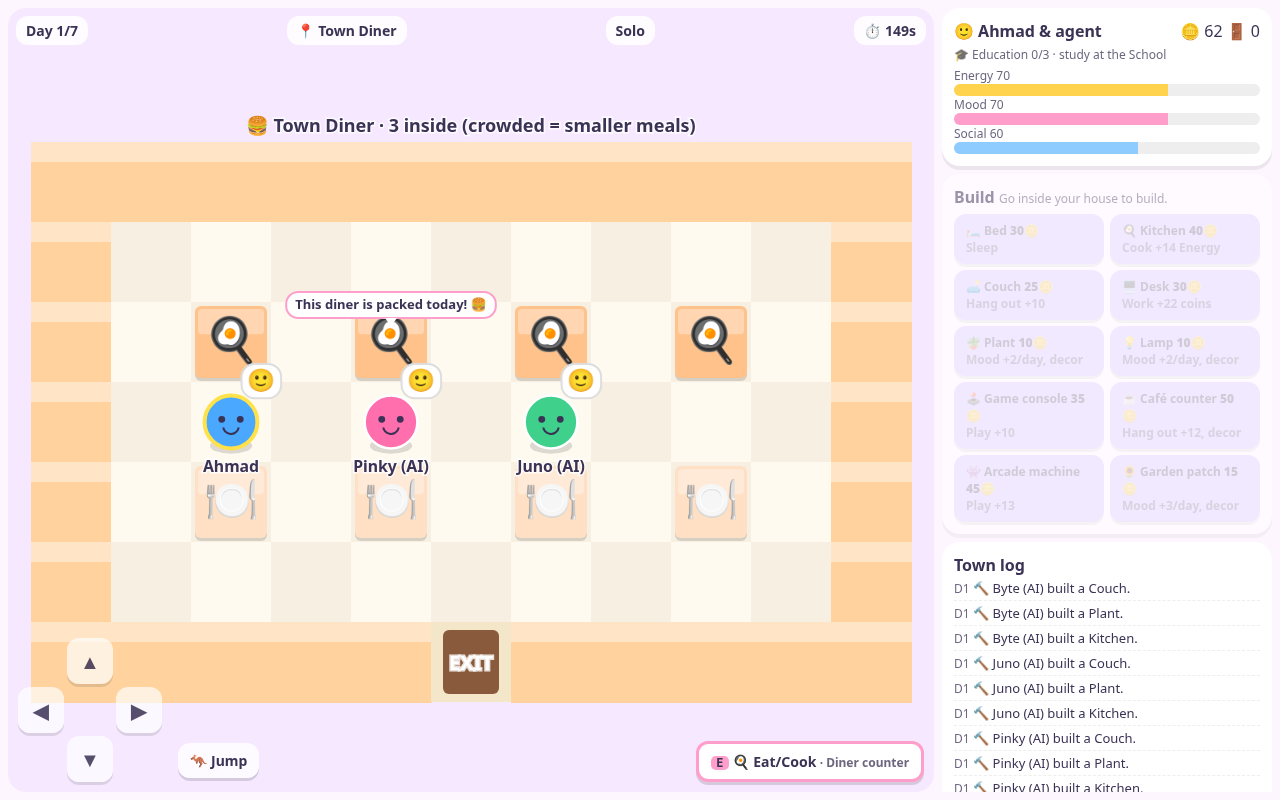
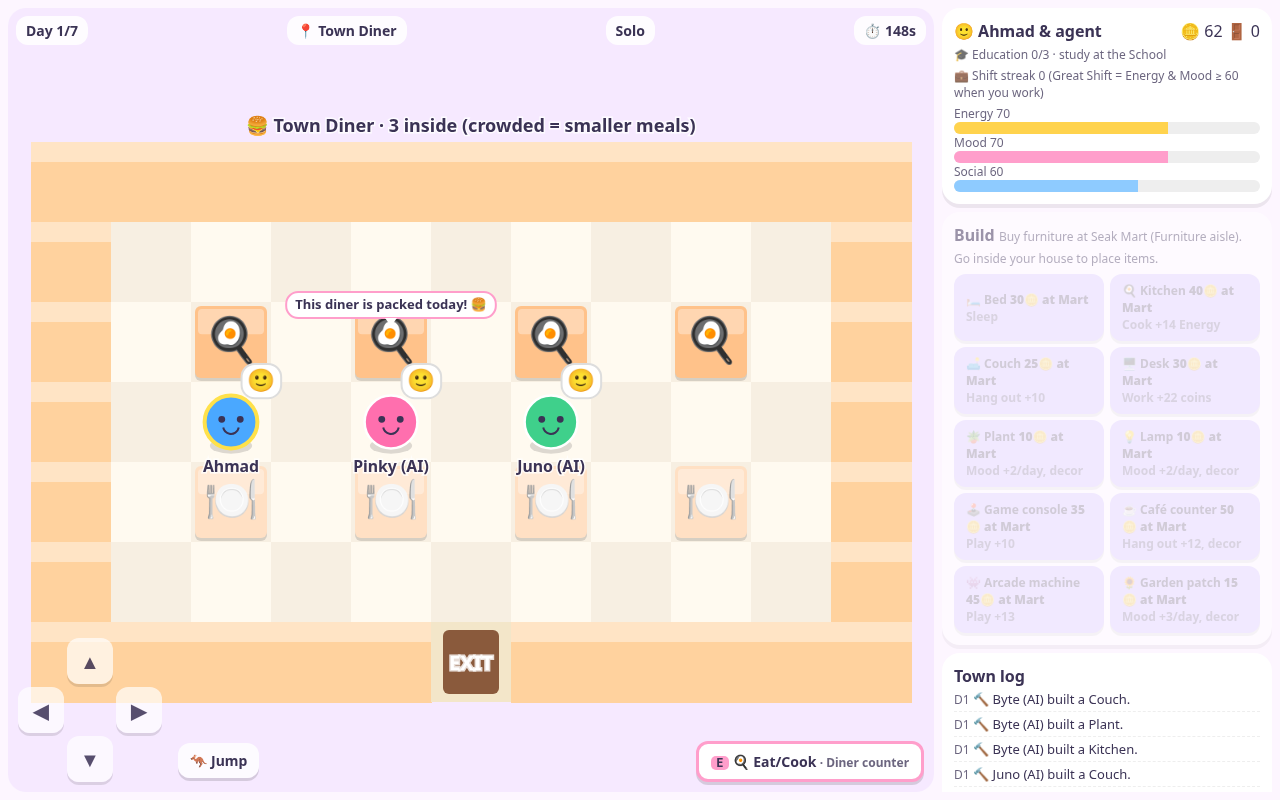
Seak Mart store + inventory building, Great Shift streaks/Star Employee, coin score + Richest + trophies, arcade door fix, README rules; tests

Changed region(s): [[0.75, 0.2812, 0.9688, 1.0], [0.7188, 0.0938, 1.0, 0.25]]

diff --git a/test_engine.js b/test_engine.js
@@ -3,7 +3,7 @@ const fs=require('fs'),vm=require('vm');const src=fs.readFileSync(__dirname+'/in
 const ctx={module:{exports:{}},globalThis:{}};vm.runInNewContext(src,ctx);const E=ctx.module.exports;
 let fails=0;const ok=(c,m)=>{console.log((c?'✔ ':'✘ ')+m);if(!c)fails++;};
 function walkTo(st,id,map,goalFn,now){for(let i=0;i<400;i++){const p=st.players[id];if(p.pos.map===map&&goalFn(p.pos.x,p.pos.y))return now;
- let fn;if(p.pos.map!==map){if(p.pos.map!=='town'){const d=p.pos.map[0]==='b'?{x:5,y:6}:{x:4,y:6};fn=(x,y)=>x===d.x&&y===d.y;}else{const d=E.doorOf(map);fn=(x,y)=>x===d.x&&y===d.y;}}else fn=goalFn;
+ let fn;if(p.pos.map!==map){if(p.pos.map!=='town'){const d=E.exitDoor(p.pos.map);fn=(x,y)=>x===d.x&&y===d.y;}else{const d=E.doorOf(map);fn=(x,y)=>x===d.x&&y===d.y;}}else fn=goalFn;
  const n=E.nextStep(st,p.pos.map,p.pos.x,p.pos.y,fn);if(!n)throw new Error('no path');now+=200;E.step(st,id,n[0]-p.pos.x,n[1]-p.pos.y,now);}throw new Error('walk timeout');}
 const nearSpot=(map,ch)=>{const L=E.PUB_LAYOUT[map.slice(2)];return(x,y)=>[[1,0],[-1,0],[0,1],[0,-1]].some(([dx,dy])=>L[y+dy]&&L[y+dy][x+dx]===ch);};
 // 1. AI-only games
@@ -15,15 +15,36 @@ const st=E.createState('X',{speed:1});E.addPlayer(st,'me','Ahmad');E.addPlayer(s
 now=walkTo(st,'me','b:diner',nearSpot('b:diner','C'),now);ok(st.players.me.pos.map==='b:diner','walked through the door into the Town Diner');
 st.players.pk.pos={map:'b:diner',x:8,y:5,dir:'up'};st.players.j.pos={map:'b:diner',x:9,y:5,dir:'up'};
 ok(E.doAction(st,'me','eat',now)==='ok'&&st.players.me.busy.g.energy<10,'crowded diner (2 others inside) gives a smaller meal: +'+st.players.me.busy.g.energy+' Energy');now+=7000;E.tick(st,now);
-now=walkTo(st,'me','b:office',nearSpot('b:office','W'),now);const m0=st.players.me.needs.mood,c0=st.players.me.coins;ok(E.doAction(st,'me','work',now)==='ok','Work at Office desk');now+=9000;E.tick(st,now);
+now=walkTo(st,'me','b:office',nearSpot('b:office','W'),now);st.players.me.needs.mood=50;const m0=st.players.me.needs.mood,c0=st.players.me.coins;ok(E.doAction(st,'me','work',now)==='ok','Work at Office desk');now+=9000;E.tick(st,now);
 const pay1=st.players.me.coins-c0;ok(st.players.me.needs.mood<m0,`Work drains Mood: ${m0} -> ${st.players.me.needs.mood}, paid ${pay1}`);
 for(let d=0;d<3;d++){now=walkTo(st,'me','b:school',nearSpot('b:school','K'),now);ok(E.doAction(st,'me','study',now)==='ok',`study session ${d+1} (day ${st.day})`);
  if(d===0)ok(E.doAction(st,'me','study',now+9000)!=='ok','only one class per day');now+=9000;E.tick(st,now);st.dayEnd=now+1;now+=2;E.tick(st,now);st.dayEnd=now+150000;}
-ok(st.players.me.edu===3,'graduated (edu 3/3)');now=walkTo(st,'me','b:office',nearSpot('b:office','W'),now);st.players.me.cd={};st.players.me.needs.energy=80;const c1=st.players.me.coins;E.doAction(st,'me','work',now);now+=9000;E.tick(st,now);
+ok(st.players.me.edu===3,'graduated (edu 3/3)');now=walkTo(st,'me','b:office',nearSpot('b:office','W'),now);st.players.me.cd={};st.players.me.needs.energy=80;st.players.me.needs.mood=40;const c1=st.players.me.coins;E.doAction(st,'me','work',now);now+=9000;E.tick(st,now);
 ok(st.players.me.coins-c1>pay1,`graduate pay ${st.players.me.coins-c1} > ${pay1}`);
 // arcade
 now=walkTo(st,'me','b:arcade',nearSpot('b:arcade','A'),now);ok(E.doAction(st,'me','play',now)==='ok','played at the Arcade building');now+=7000;E.tick(st,now);
 // Pinky talk
 st.players.pk.pos={...st.players.me.pos};st.players.pk.pos.x+=1;if(!E.walkable(st,st.players.me.pos.map,st.players.pk.pos.x,st.players.pk.pos.y))st.players.pk.pos.x-=2;
 ok(E.actionsAt(st,'me')[0].action==='talk'&&E.doAction(st,'me','talk',now)==='ok'&&st.players.pk.say,'talk to Pinky: "'+(st.players.pk.say&&st.players.pk.say.text)+'"');
+// 3. Great Shift streak + Star Employee
+{const me=st.players.me;now=walkTo(st,'me','b:office',nearSpot('b:office','W'),now);me.edu=0;me.streak=0;me.star=false;const pays=[];
+ for(let i=0;i<4;i++){me.cd={};if(i<3){me.needs.energy=90;me.needs.mood=90;}else{me.needs.mood=30;}const c=me.coins;E.doAction(st,'me','work',now);now+=9000;E.tick(st,now);pays.push(me.coins-c);}
+ ok(pays[0]===23&&pays[1]===24&&pays[2]===26,'great shifts pay +50%, +60%, +70% (streak bonus): '+pays.slice(0,3).join(', '));
+ ok(me.star&&st.log.some(l=>/Star Employee/.test(l.m)),'3 in a row → Star Employee badge + log');ok(me.streak===0&&pays[3]===15,'non-great shift (Mood 30) resets streak, pays base 15');}
+// 4. Seak Mart: shop, checkout, gifts, place furniture
+{const me=st.players.me;me.coins=200;me.needs.energy=40;
+ now=walkTo(st,'me','b:mart',nearSpot('b:mart','R'),now);ok(E.doAction(st,'me','shop',now,'coffee')==='ok','added Coffee from Treats aisle');ok(E.doAction(st,'me','shop',now,'f:couch')!=='ok','cannot grab furniture from the Treats aisle');
+ now=walkTo(st,'me','b:mart',nearSpot('b:mart','U'),now);ok(E.doAction(st,'me','shop',now,'f:couch')==='ok','added Couch from Furniture aisle');
+ now=walkTo(st,'me','b:mart',nearSpot('b:mart','G'),now);E.doAction(st,'me','shop',now,'flowers');now=walkTo(st,'me','b:mart',nearSpot('b:mart','M'),now);E.doAction(st,'me','shop',now,'tophat');
+ now=walkTo(st,'me','b:mart',nearSpot('b:mart','$'),now);const e0=me.needs.energy,c0=me.coins;ok(E.doAction(st,'me','checkout',now)==='ok','checkout');
+ ok(c0-me.coins===8+25+10+20&&me.needs.energy===e0+12&&me.inv.includes('couch')&&me.gifts.length===1&&me.hat==='🎩',`paid ${c0-me.coins}, coffee +12 Energy, couch in bag, flowers in gifts, wearing 🎩`);
+ const pk=st.players.pk;pk.pos={...me.pos};pk.pos.x+=1;if(!E.walkable(st,'b:mart',pk.pos.x,pk.pos.y))pk.pos.x-=2;const s0=me.needs.social,ps=pk.needs.social;
+ ok(E.actionsAt(st,'me')[0].action==='gift'&&E.doAction(st,'me','gift',now)==='ok'&&me.needs.social===Math.min(100,s0+8)&&pk.needs.social===Math.min(100,ps+8),'gave flowers to Pinky: +8 Social both, Pinky says: "'+pk.say.text+'"');
+ now=walkTo(st,'me','h0',(x,y)=>x===4&&y===5,now);const n0=me.items.length;ok(E.buy(st,'me','couch',null,null)==='ok'&&me.items.length===n0+1&&!me.inv.includes('couch'),'placed the bought couch at home from the bag');ok(E.buy(st,'me','arcade',null,null)!=='ok','cannot place furniture you did not buy');}
+// 5. End scoring
+{st.order.forEach((id,i)=>st.players[id].coins=[95,10,250][i]);const R=E.scores(st);const r=R.rows.find(x=>x.id==='j');
+ ok(r.coinPts===25&&r.score===r.happiness+r.visits*10+25,'score adds +1 per 10 coins: Juno '+JSON.stringify({h:r.happiness,v:r.visits,coins:r.coins,score:r.score}));ok(R.richest==='Juno (AI)','Richest title → '+R.richest);}
+// 6. AI shoppers
+{const st2=E.createState('Y',{speed:1,seed:5});['Pinky (AI)','b','c'].forEach((n,i)=>E.addPlayer(st2,'q'+i,n,true));let t=0;E.startGame(st2,t);const seen=new Set();while(st2.phase==='day'&&st2.day<=3){t+=50;E.tick(st2,t);st2.log.slice(-4).forEach(l=>seen.add(l.m));}
+ ok([...seen].some(m=>/checked out at Seak Mart/.test(m))&&Object.values(st2.players).some(p=>p.items.length>1),'AI neighbors shop at Seak Mart and place what they bought');}
 console.log(fails?'FAIL':'PASS');process.exit(fails?1:0);

diff --git a/test_mp.js b/test_mp.js
@@ -1,5 +1,5 @@
 // Headless multiplayer test. Run: SEAK_SPEED=0.06 node server.js  then  node test_mp.js
-// Covers: create/join, jump emote sync, walk-in Diner + eat inside, movement sync between clients, an action trigger (Sleep at bed), a visit, full 7 days, synced results.
+// Covers: create/join, jump emote sync, walk-in Diner + eat inside, Seak Mart purchase, movement sync between clients, an action trigger (Sleep at bed), a visit, full 7 days, synced results.
 const WebSocket=require('ws');const URL='ws://localhost:'+(process.env.PORT||3000);
 const fs=require('fs'),vm=require('vm');const ectx={module:{exports:{}},globalThis:{}};vm.runInNewContext(fs.readFileSync(__dirname+'/index.html','utf8').match(/<script id="engine">([\s\S]*?)<\/script>/)[1],ectx);const E=ectx.module.exports;
 const sleep=ms=>new Promise(r=>setTimeout(r,ms));
@@ -9,7 +9,7 @@ const wait=(f,ms=20000,what='')=>new Promise((r,j)=>{const t0=Date.now(),i=setIn
 const tx=(ws,m)=>ws.send(JSON.stringify(m));
 async function walk(ws,dx,dy,n){for(let i=0;i<n;i++){tx(ws,{t:'step',dx,dy});await sleep(120);}}
 async function walkTo(ws,map,goalFn){for(let i=0;i<200;i++){const p=ws.st.players[ws.id],q=p.pos;if(q.map===map&&goalFn(q.x,q.y))return;
- let fn;if(q.map!==map){if(q.map!=='town'){const d=q.map[0]==='b'?{x:5,y:6}:{x:4,y:6};fn=(x,y)=>x===d.x&&y===d.y;}else{const d=E.doorOf(map);fn=(x,y)=>x===d.x&&y===d.y;}}else fn=goalFn;
+ let fn;if(q.map!==map){if(q.map!=='town'){const d=E.exitDoor(q.map);fn=(x,y)=>x===d.x&&y===d.y;}else{const d=E.doorOf(map);fn=(x,y)=>x===d.x&&y===d.y;}}else fn=goalFn;
  const n=E.nextStep(ws.st,q.map,q.x,q.y,fn);if(!n)throw new Error('no path');const before=JSON.stringify(q);tx(ws,{t:'step',dx:n[0]-q.x,dy:n[1]-q.y});
  await wait(()=>JSON.stringify(ws.st.players[ws.id].pos)!==before,1500,'step ack').catch(()=>{});await sleep(100);}throw new Error('walkTo timeout');}
 let pass=0;const ok=m=>{pass++;console.log('✔',m);};
@@ -29,9 +29,14 @@ let pass=0;const ok=m=>{pass++;console.log('✔',m);};
  await wait(()=>a.st.players[a.id].visits===1&&a.st.players[b.id].pos.map==='h0',3000,'visit');ok(`visit: B entered A's house, A visits=${a.st.players[a.id].visits}, log: "${a.st.log.filter(l=>/visited/.test(l.m)).pop().m}"`);
  await walk(b,0,1,1);await wait(()=>a.st.players[b.id].pos.map==='town',2000,'exit');await walk(b,0,-1,1);await sleep(300);
  if(a.st.players[a.id].visits!==1)throw new Error('visit counted twice same day');ok('re-entering same day does not add a second visit');
- tx(a,{t:'buy',item:'plant',x:5,y:2});await wait(()=>b.st.players[a.id].items.some(i=>i.t==='plant'),3000,'buy');ok('build synced: plant placed at (5,2)');
+ a.errs.length=0;tx(a,{t:'buy',item:'plant',x:5,y:2});await wait(()=>a.errs.some(e=>/Seak Mart/.test(e)),3000,'refuse');ok('placing furniture you have not bought is refused');
  await walkTo(a,'b:diner',(x,y)=>E.PUB_LAYOUT.diner[y-1]&&E.PUB_LAYOUT.diner[y-1][x]==='C');await wait(()=>b.st.players[a.id].pos.map==='b:diner',2000,'diner sync');ok('A walked through the door into the Town Diner (B sees map b:diner)');
  const e1=a.st.players[a.id].needs.energy;tx(a,{t:'do',action:'eat'});await wait(()=>b.st.players[a.id].busy&&b.st.players[a.id].busy.src==='Diner counter',3000,'eat');await wait(()=>!a.st.players[a.id].busy,5000,'eat done');ok(`A ate at the diner counter inside: energy ${e1} -> ${a.st.players[a.id].needs.energy}`);
- let days=new Set();await wait(()=>{days.add(a.st.day);return a.st.phase==='results'&&b.st.phase==='results';},90000,'7 days');ok('played through days '+[...days].join(','));
+ const adj=ch=>(x,y)=>[[1,0],[-1,0],[0,1],[0,-1]].some(([dx,dy])=>{const L=E.PUB_LAYOUT.mart;return L[y+dy]&&L[y+dy][x+dx]===ch;});
+ await walkTo(a,'b:mart',adj('R'));tx(a,{t:'do',action:'shop',arg:'coffee'});await wait(()=>b.st.players[a.id].cart.length===1,3000,'cart');
+ await walkTo(a,'b:mart',adj('U'));tx(a,{t:'do',action:'shop',arg:'f:plant'});await wait(()=>b.st.players[a.id].cart.length===2,3000,'cart2');
+ await walkTo(a,'b:mart',adj('$'));const c0=a.st.players[a.id].coins;tx(a,{t:'do',action:'checkout'});await wait(()=>b.st.players[a.id].coins===c0-18&&!b.st.players[a.id].cart.length,3000,'checkout');ok('Seak Mart: A bought Coffee + Plant at checkout (B sees coins '+c0+' -> '+(c0-18)+')');
+ await walkTo(a,'h0',(x,y)=>x===4&&y===5);tx(a,{t:'buy',item:'plant',x:5,y:2});await wait(()=>b.st.players[a.id].items.some(i=>i.t==='plant'),3000,'place');ok('placed the bought plant at home; B sees it');
+ let days=new Set();await wait(()=>{days.add(a.st.day);return a.st.phase==='results'&&b.st.phase==='results';},150000,'7 days');ok('played through days '+[...days].join(','));
  if(JSON.stringify(a.st.results)!==JSON.stringify(b.st.results))throw new Error('results desync');ok('results identical on both clients: '+JSON.stringify(a.st.results));
  console.log(`PASS (${pass} checks)`);process.exit(0);})().catch(e=>{console.error('FAIL',e.message);process.exit(1);});

diff --git a/server.js b/server.js
@@ -19,7 +19,7 @@ wss.on('connection',ws=>{ws.id='p'+(nextId++);
   const room=ws.room;if(!room)return;const st=room.st;let r='ok';
   if(m.t==='emote'){if(E.emote(st,ws.id,now)){const msg=JSON.stringify({t:'emote',id:ws.id,at:now});for(const c of room.clients)if(c.readyState===1)c.send(msg);}return;}
   if(m.t==='step'){E.step(st,ws.id,m.dx|0,m.dy|0,now);return;}// positions go out in the 10Hz 'pos' broadcast
-  if(m.t==='do')r=E.doAction(st,ws.id,String(m.action),now);else if(m.t==='buy')r=E.buy(st,ws.id,String(m.item),m.x==null?null:m.x|0,m.y==null?null:m.y|0);
+  if(m.t==='do')r=E.doAction(st,ws.id,String(m.action),now,m.arg==null?null:String(m.arg));else if(m.t==='buy')r=E.buy(st,ws.id,String(m.item),m.x==null?null:m.x|0,m.y==null?null:m.y|0);
   else if(m.t==='start')E.startGame(st,now);else if(m.t==='bot'){if(st.phase==='lobby')E.addPlayer(st,'bot'+(nextId++),(st.order.some(i=>st.players[i].pinky)?['Pixel','Juno','Byte','Mochi','Nova'][st.order.length%5]:'Pinky')+' (AI)',true);}
   if(r!=='ok')err(r);E.tick(st,now);broadcast(room);});
  ws.on('close',()=>{const room=ws.room;if(!room)return;room.clients.delete(ws);E.removePlayer(room.st,ws.id);if(!room.clients.size)rooms.delete(room.st.code);else broadcast(room);});});

diff --git a/README.md b/README.md
@@ -26,20 +26,29 @@ Same Wi-Fi: `http://<your-LAN-IP>:3000`. Public: deploy the folder to Render/Rai
 - **Jump:** press J or tap 🦘 Jump. Cosmetic, synced in multiplayer; happy AIs jump too.
 - **Pinky** (pink AI neighbor; first AI added in multiplayer): works at the Office, plays at the Arcade, studies, visits your house, talks when you press E next to her (+4 Social each), and sometimes walks over to offer a hangout (press E to accept: both Hang out, +12 Social).
 - A crowded diner now means other agents *inside* the diner: smaller meals.
+- **Seak Mart** (walk-in store), **Great Shift streaks / Star Employee**, coins count toward the final score, **Richest** title, trophies on the results screen.
 
 ## Rules
 | Spot | Action | Effect |
 |---|---|---|
-| Bed (every house starts with one) | Sleep | +18 Energy |
-| Diner counter / home Kitchen | Eat/Cook | +10 / +14 Energy |
-| Office desk / home Desk | Work | +15 / +22 coins, −6 Energy |
-| Plaza bench / Couch / Café | Hang out | +8 / +10 / +12 Social |
-| Plaza arcade / Console / Arcade | Play | +8 / +10 / +13 Mood |
-| Neighbor's door | Visit | +8 Social you, +5 Social & +1 visit for owner (once per house per day); decor gives you Mood |
+| Bed (every house starts with one) | Sleep | +18 Energy (+12 without own bed); halved if a noisy hangout is next door |
+| Diner counter (walk-in Diner) / home Kitchen | Eat/Cook | +10 / +14 Energy; smaller meal for each other agent inside the Diner; eating at the same time = +5 Social |
+| Office desk / home Desk | Work | +15 / +22 coins, −6 Energy, −7 Mood. Graduates ×1.6. **Great Shift** (Energy & Mood ≥ 60): +50% coins, +10% more per streak step (max +100%); 3 in a row = 🏅 Star Employee |
+| School desk (walk-in School) | Study | −5 Energy, one class per day; 3 classes = Graduated 🎓 |
+| Plaza bench / Couch / Café | Hang out | +8 / +10 / +12 Social; +3 per agent hanging out with you |
+| Arcade cabinet (walk-in Arcade) / Console / Arcade machine | Play | +12 / +10 / +13 Mood |
+| Neighbor's door | Visit | +8 Social for you, +5 Social & +1 visit for the owner (once per house per day); decor gives you Mood |
+| Seak Mart aisles → Checkout | Shop | Treats (Coffee +12 Energy, Donut), Fun (Movie +15 Mood, New game +20 Mood), Gifts (Flowers/Plushie), Furniture (all 10 build items → your bag), Cosmetics (Cap/Top hat/Crown, Mint/Gold paint). Pay at the checkout; leaving without paying puts the cart back |
+| Next to anyone with a gift in your bag | Give gift | +8 (Flowers) / +12 (Plushie) Social for both |
+| Next to Pinky | Talk / accept hangout | +4 Social each / Hang out together +12 Social |
+
+**Building:** furniture is bought at Seak Mart and goes to your bag. Inside your house, pick it in the Build panel and tap a free tile.
+
+**End of week:** score = average needs + 10 × visits + 1 per 10 leftover coins. Titles: Best Host, Most Rested, Town Architect, Richest, plus 🏅 Star Employee badges and 🥇🥈🥉 trophies.
 
 - **Real-time days:** each day is ~2½ min. Actions take a few seconds (your agent is busy) and then cool down ~12 s, so you get several actions a day but must choose. Overnight: Energy −22, Mood −18 (+decor), Social −18, +10 coins.
 - **Collisions:** a crowded diner gives smaller meals; eating at the same time as someone = shared meal (+Social); hanging out together stacks Social; a hangout in your house or a neighbor's (same row) halves the Sleep of anyone sleeping there; a Plaza party (2+) disturbs sleepers in the bottom-row houses; several visitors at once = packed house bonus.
-- **After Day 7:** score = average needs + 10 × visits. Titles: Best Host (visits), Most Rested (Energy), Town Architect (items built).
+
 
 ## How it's built
 - `index.html`: UI + canvas renderer + the shared engine (`<script id="engine">`).
